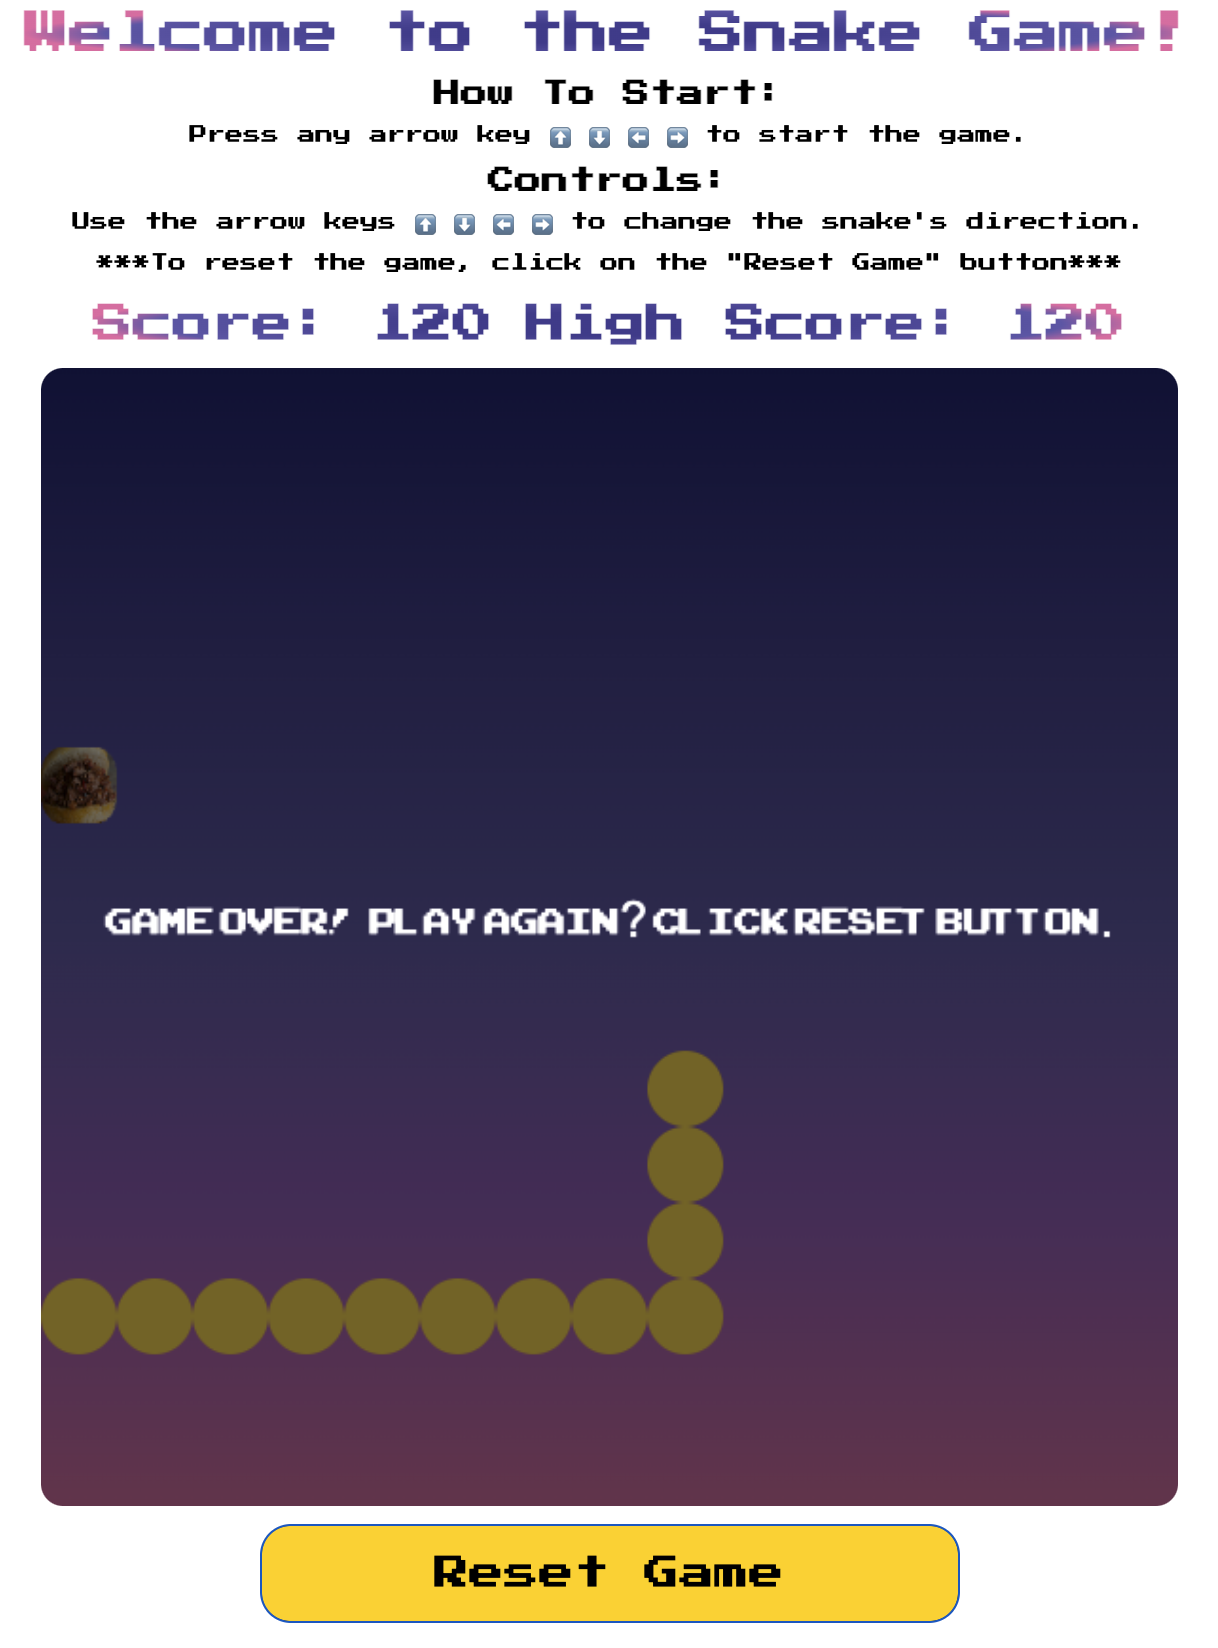
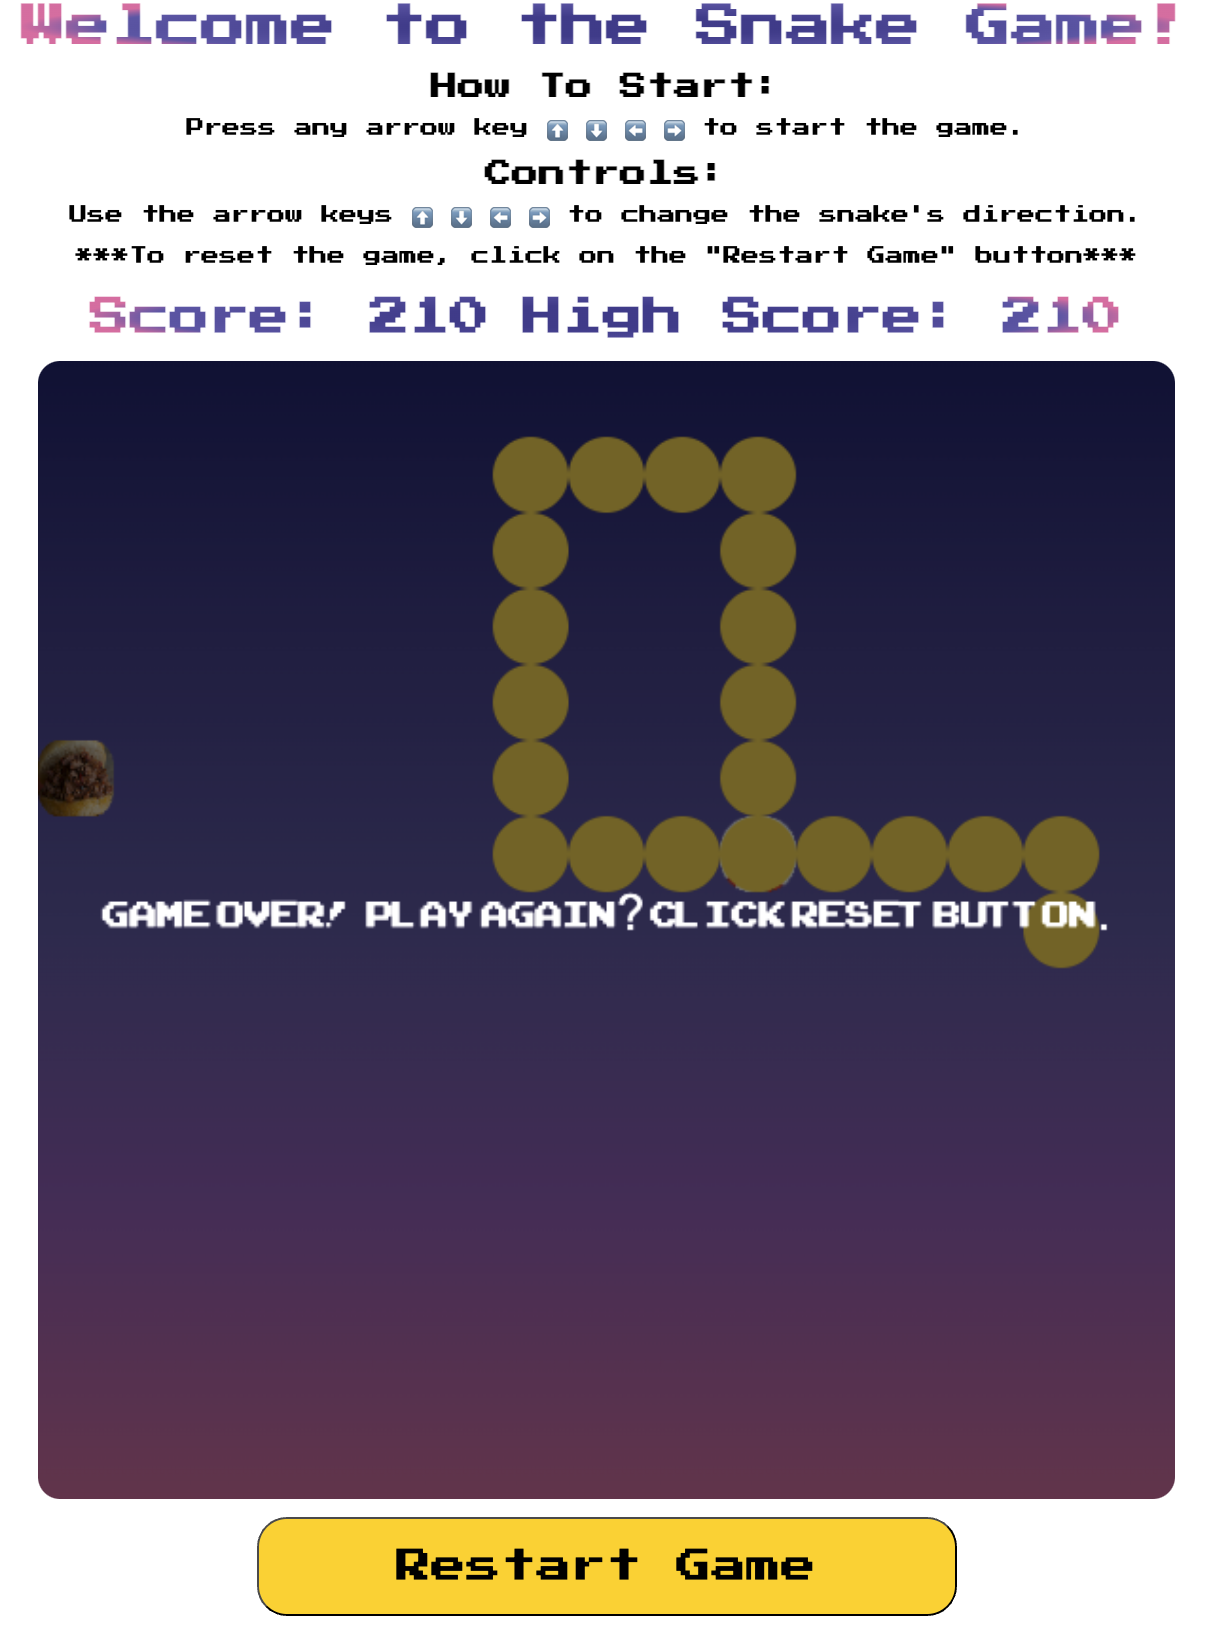
updated snake game image

diff --git a/index.html b/index.html
@@ -15,7 +15,7 @@
       <p>Press any arrow key ⬆ ⬇ ⬅ ➡ to start the game.</p>
       <h2>Controls:</h2>
       <p>Use the arrow keys ⬆ ⬇ ⬅ ➡ to change the snake's direction.</p>
-      <p>***To reset the game, click on the "Reset Game" button***</p>
+      <p>***To reset the game, click on the "Restart Game" button***</p>
     </div>
     <div class="text-gradient" id="game-status">
       <p id="score">Score: 0</p>
@@ -29,7 +29,7 @@
       id="board"
     ></canvas>
     <button aria-label="reset-button" title="reset-button" id="reset-button">
-      Reset Game
+      Restart Game
     </button>
 
   </body>
